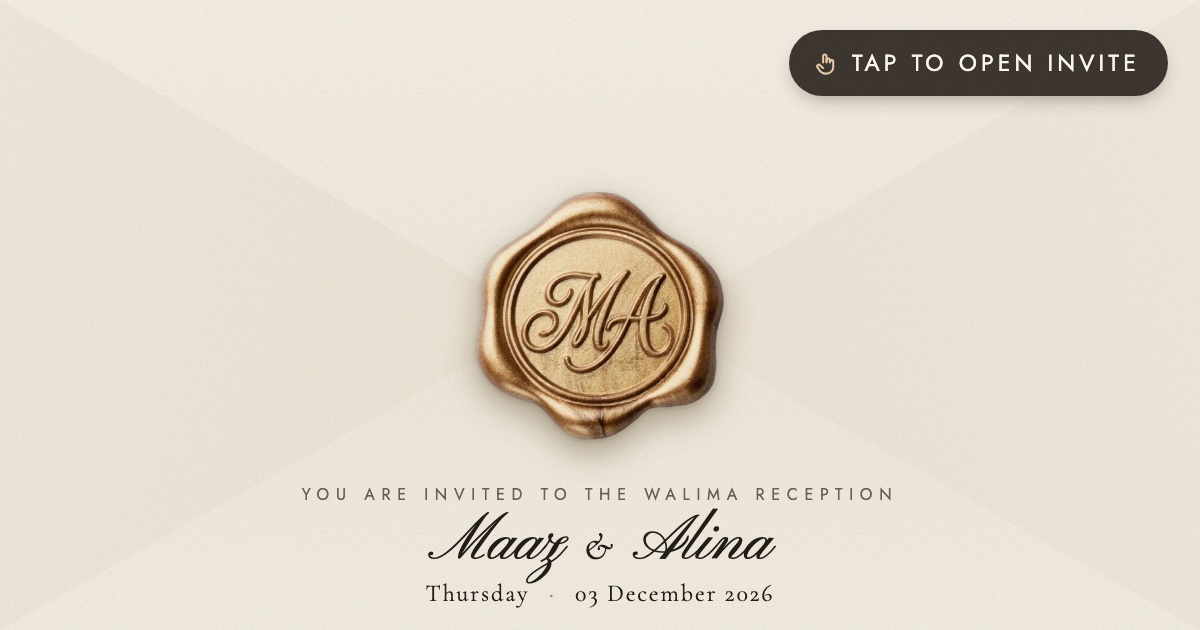
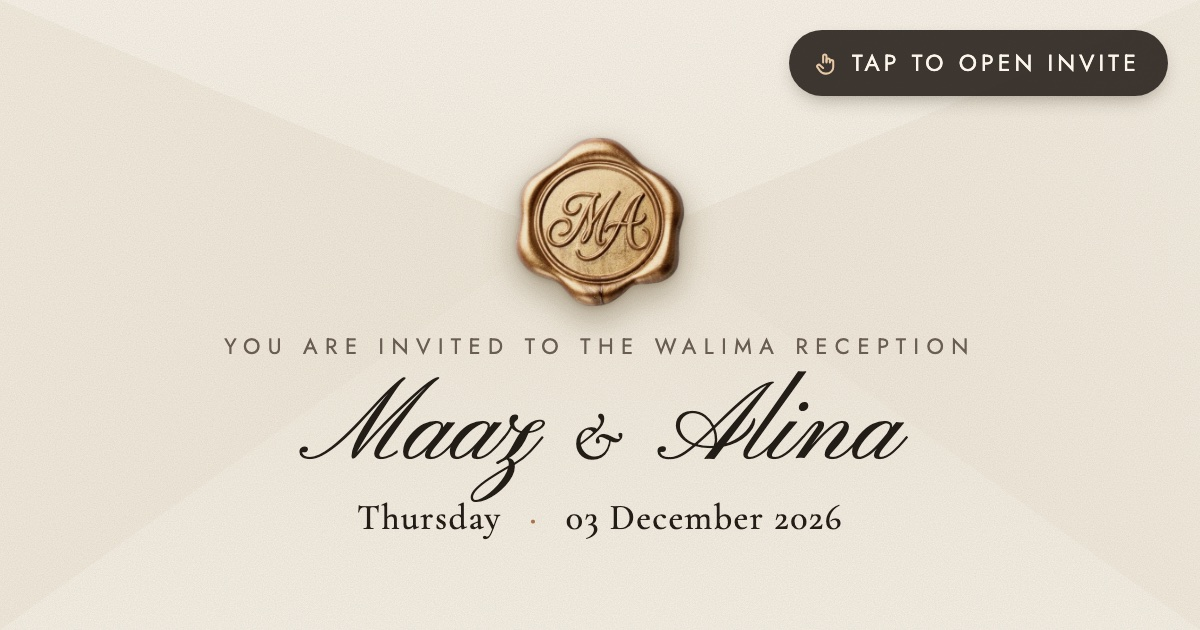
Smoother on phones; rebalanced WhatsApp preview cards
- Phones: paper grain without blending, no live shadows on branches
  and envelope flaps, solid tabs bar instead of frosted glass, the
  opening hero animates transform only, fewer petals.
- Preview cards: smaller seal, much larger names and event details,
  centred on the card.

Changed region(s): [[0.185, 0.2111, 0.8017, 0.9349], [0.4933, 0.9349, 0.6475, 0.9651], [0.37, 0.9349, 0.4317, 0.9651]]

diff --git a/barat-Akfarm-01/index.html b/barat-Akfarm-01/index.html
@@ -10,7 +10,7 @@
   <meta property="og:url" content="https://maaz-alina.vercel.app/barat-Akfarm-01/">
   <meta property="og:title" content="Maaz &amp; Alina · Wedding Ceremony">
   <meta property="og:description" content="Tuesday, 01 December 2026 · AK Farmhouse and Events, Lahore. Tap to open your invitation.">
-  <meta property="og:image" content="https://maaz-alina.vercel.app/assets/img/og-barat.jpg?v=20261103031018">
+  <meta property="og:image" content="https://maaz-alina.vercel.app/assets/img/og-barat.jpg?v=5">
   <meta property="og:image:type" content="image/jpeg">
   <meta property="og:image:width" content="1200">
   <meta property="og:image:height" content="630">
@@ -23,7 +23,7 @@
   <link rel="preconnect" href="https://fonts.googleapis.com">
   <link rel="preconnect" href="https://fonts.gstatic.com" crossorigin>
   <link href="https://fonts.googleapis.com/css2?family=Amiri&family=Cormorant+Garamond:ital,wght@0,300;0,400;0,500;0,600;1,400&family=Jost:wght@300;400&family=Noto+Nastaliq+Urdu:wght@400;500&family=Pinyon+Script&display=swap" rel="stylesheet">
-  <link rel="stylesheet" href="../assets/css/style.css?v=20261103031018">
+  <link rel="stylesheet" href="../assets/css/style.css?v=20261103032117">
 </head>
 <body data-mode="barat" class="is-locked">
   <svg class="defs" aria-hidden="true" width="0" height="0">
@@ -65,7 +65,7 @@
   <audio id="bgm" loop preload="none"></audio>
 
   <script>window.BASE = '../';</script>
-  <script src="../assets/js/content.js?v=20261103031018"></script>
-  <script src="../assets/js/main.js?v=20261103031018"></script>
+  <script src="../assets/js/content.js?v=20261103032117"></script>
+  <script src="../assets/js/main.js?v=20261103032117"></script>
 </body>
 </html>

diff --git a/walima-zainab-03/index.html b/walima-zainab-03/index.html
@@ -10,7 +10,7 @@
   <meta property="og:url" content="https://maaz-alina.vercel.app/walima-zainab-03/">
   <meta property="og:title" content="Maaz &amp; Alina · Walima Reception">
   <meta property="og:description" content="Thursday, 03 December 2026 · Zainab Marquee, Khanpur. Tap to open your invitation.">
-  <meta property="og:image" content="https://maaz-alina.vercel.app/assets/img/og-walima.jpg?v=20261103031018">
+  <meta property="og:image" content="https://maaz-alina.vercel.app/assets/img/og-walima.jpg?v=5">
   <meta property="og:image:type" content="image/jpeg">
   <meta property="og:image:width" content="1200">
   <meta property="og:image:height" content="630">
@@ -23,7 +23,7 @@
   <link rel="preconnect" href="https://fonts.googleapis.com">
   <link rel="preconnect" href="https://fonts.gstatic.com" crossorigin>
   <link href="https://fonts.googleapis.com/css2?family=Amiri&family=Cormorant+Garamond:ital,wght@0,300;0,400;0,500;0,600;1,400&family=Jost:wght@300;400&family=Noto+Nastaliq+Urdu:wght@400;500&family=Pinyon+Script&display=swap" rel="stylesheet">
-  <link rel="stylesheet" href="../assets/css/style.css?v=20261103031018">
+  <link rel="stylesheet" href="../assets/css/style.css?v=20261103032117">
 </head>
 <body data-mode="walima" class="is-locked">
   <svg class="defs" aria-hidden="true" width="0" height="0">
@@ -65,7 +65,7 @@
   <audio id="bgm" loop preload="none"></audio>
 
   <script>window.BASE = '../';</script>
-  <script src="../assets/js/content.js?v=20261103031018"></script>
-  <script src="../assets/js/main.js?v=20261103031018"></script>
+  <script src="../assets/js/content.js?v=20261103032117"></script>
+  <script src="../assets/js/main.js?v=20261103032117"></script>
 </body>
 </html>

diff --git a/index.html b/index.html
@@ -10,7 +10,7 @@
   <meta property="og:url" content="https://maaz-alina.vercel.app/">
   <meta property="og:title" content="Maaz &amp; Alina · You are invited">
   <meta property="og:description" content="Wedding Ceremony · Tuesday 01 December &amp; Walima Reception · Thursday 03 December 2026. Tap to open your invitation.">
-  <meta property="og:image" content="https://maaz-alina.vercel.app/assets/img/og.jpg?v=20261103031018">
+  <meta property="og:image" content="https://maaz-alina.vercel.app/assets/img/og.jpg?v=5">
   <meta property="og:image:type" content="image/jpeg">
   <meta property="og:image:width" content="1200">
   <meta property="og:image:height" content="630">
@@ -23,7 +23,7 @@
   <link rel="preconnect" href="https://fonts.googleapis.com">
   <link rel="preconnect" href="https://fonts.gstatic.com" crossorigin>
   <link href="https://fonts.googleapis.com/css2?family=Amiri&family=Cormorant+Garamond:ital,wght@0,300;0,400;0,500;0,600;1,400&family=Jost:wght@300;400&family=Noto+Nastaliq+Urdu:wght@400;500&family=Pinyon+Script&display=swap" rel="stylesheet">
-  <link rel="stylesheet" href="assets/css/style.css?v=20261103031018">
+  <link rel="stylesheet" href="assets/css/style.css?v=20261103032117">
 </head>
 <body data-mode="both" class="is-locked">
   <svg class="defs" aria-hidden="true" width="0" height="0">
@@ -65,7 +65,7 @@
   <audio id="bgm" loop preload="none"></audio>
 
   <script>window.BASE = '';</script>
-  <script src="assets/js/content.js?v=20261103031018"></script>
-  <script src="assets/js/main.js?v=20261103031018"></script>
+  <script src="assets/js/content.js?v=20261103032117"></script>
+  <script src="assets/js/main.js?v=20261103032117"></script>
 </body>
 </html>

diff --git a/assets/css/style.css b/assets/css/style.css
@@ -588,6 +588,25 @@ main { position: relative; counter-reset: sec; overflow-x: clip; } /* branches m
   .tab-en { font-size: 10px; letter-spacing: .08em; }
 }
 
+/* ============ Phones: same look, lighter work, so scrolling and the opening stay smooth ============ */
+@media (max-width: 760px), (hover: none) and (pointer: coarse) {
+  /* paper grain without blending (blended full-screen layers make phones repaint the whole page) */
+  body::after { mix-blend-mode: normal; opacity: .05; }
+  .env-back::after, .flap i::after, .paper-card::after { display: none; }
+  /* shadows that would be redrawn every frame */
+  .flap, .flap-top { filter: none; }
+  .sway { filter: none !important; }
+  .seal-img { filter: drop-shadow(0 6px 8px rgba(78, 56, 20, .3)); }
+  /* frosted glass is costly while scrolling; a solid tint looks the same here */
+  .tabs, .monogram, .music { backdrop-filter: none; -webkit-backdrop-filter: none; background: rgba(251, 247, 239, .94); }
+  /* the hero grows out of the envelope on the GPU only */
+  body.env .hero { box-shadow: 0 0 0 8px #FBF8F1; transition: transform 1.2s cubic-bezier(.3, .7, .2, 1), border-radius 2s ease; }
+  body.env-grow .hero { box-shadow: none; transition: transform 2s cubic-bezier(.65, 0, .25, 1), border-radius 2s ease; }
+  .hero-photo, .hero-text, .hero-veil { will-change: transform, opacity; }
+  /* fewer drifting petals */
+  .petals i:nth-child(n+5) { display: none; }
+}
+
 @media (prefers-reduced-motion: reduce) {
   *, *::before, *::after { animation: none !important; transition-duration: .01s !important; transition-delay: 0s !important; }
   html { scroll-behavior: auto; }
